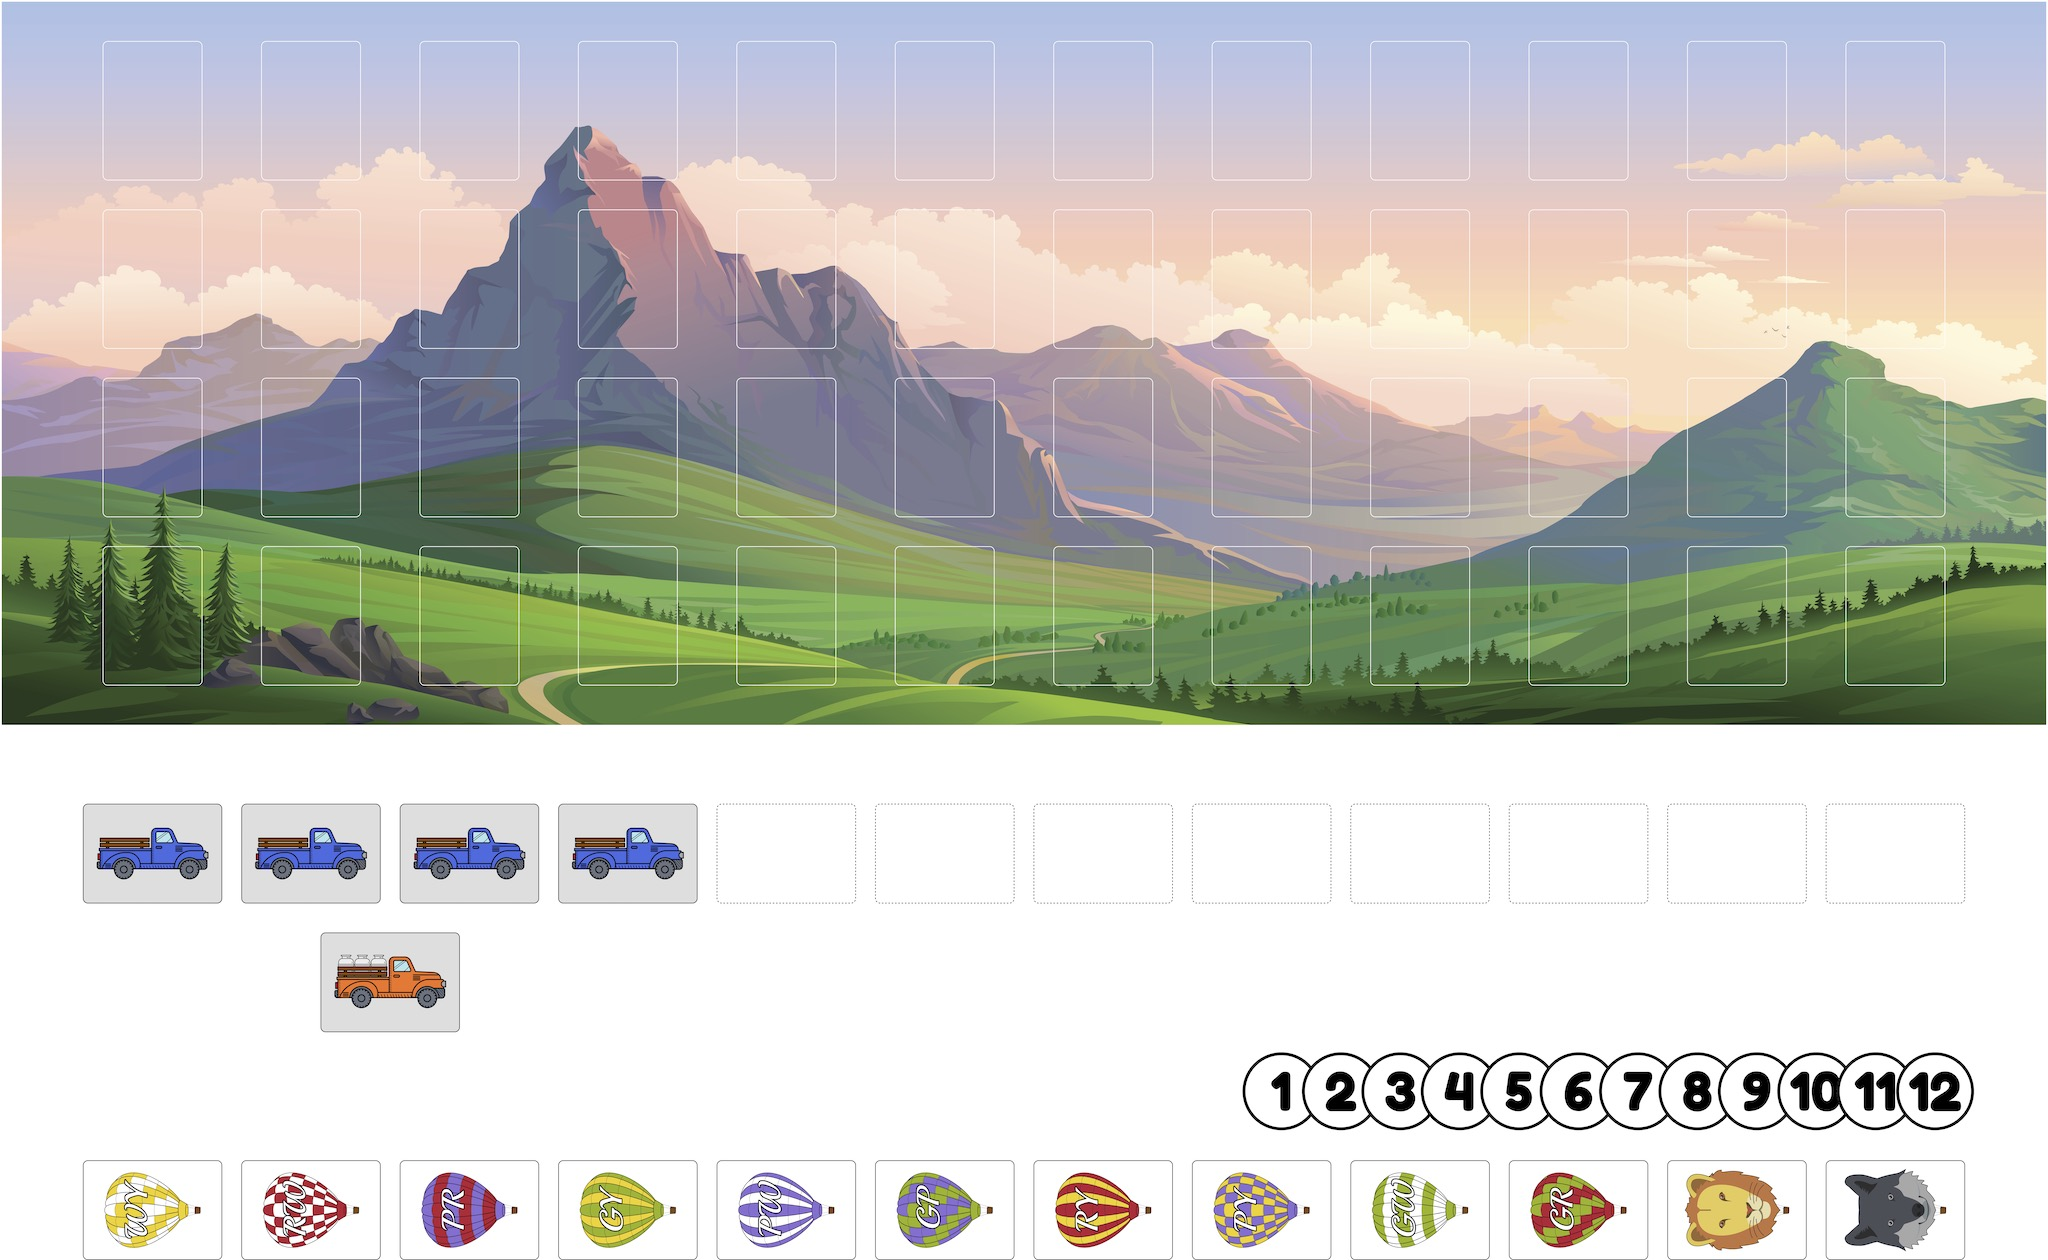
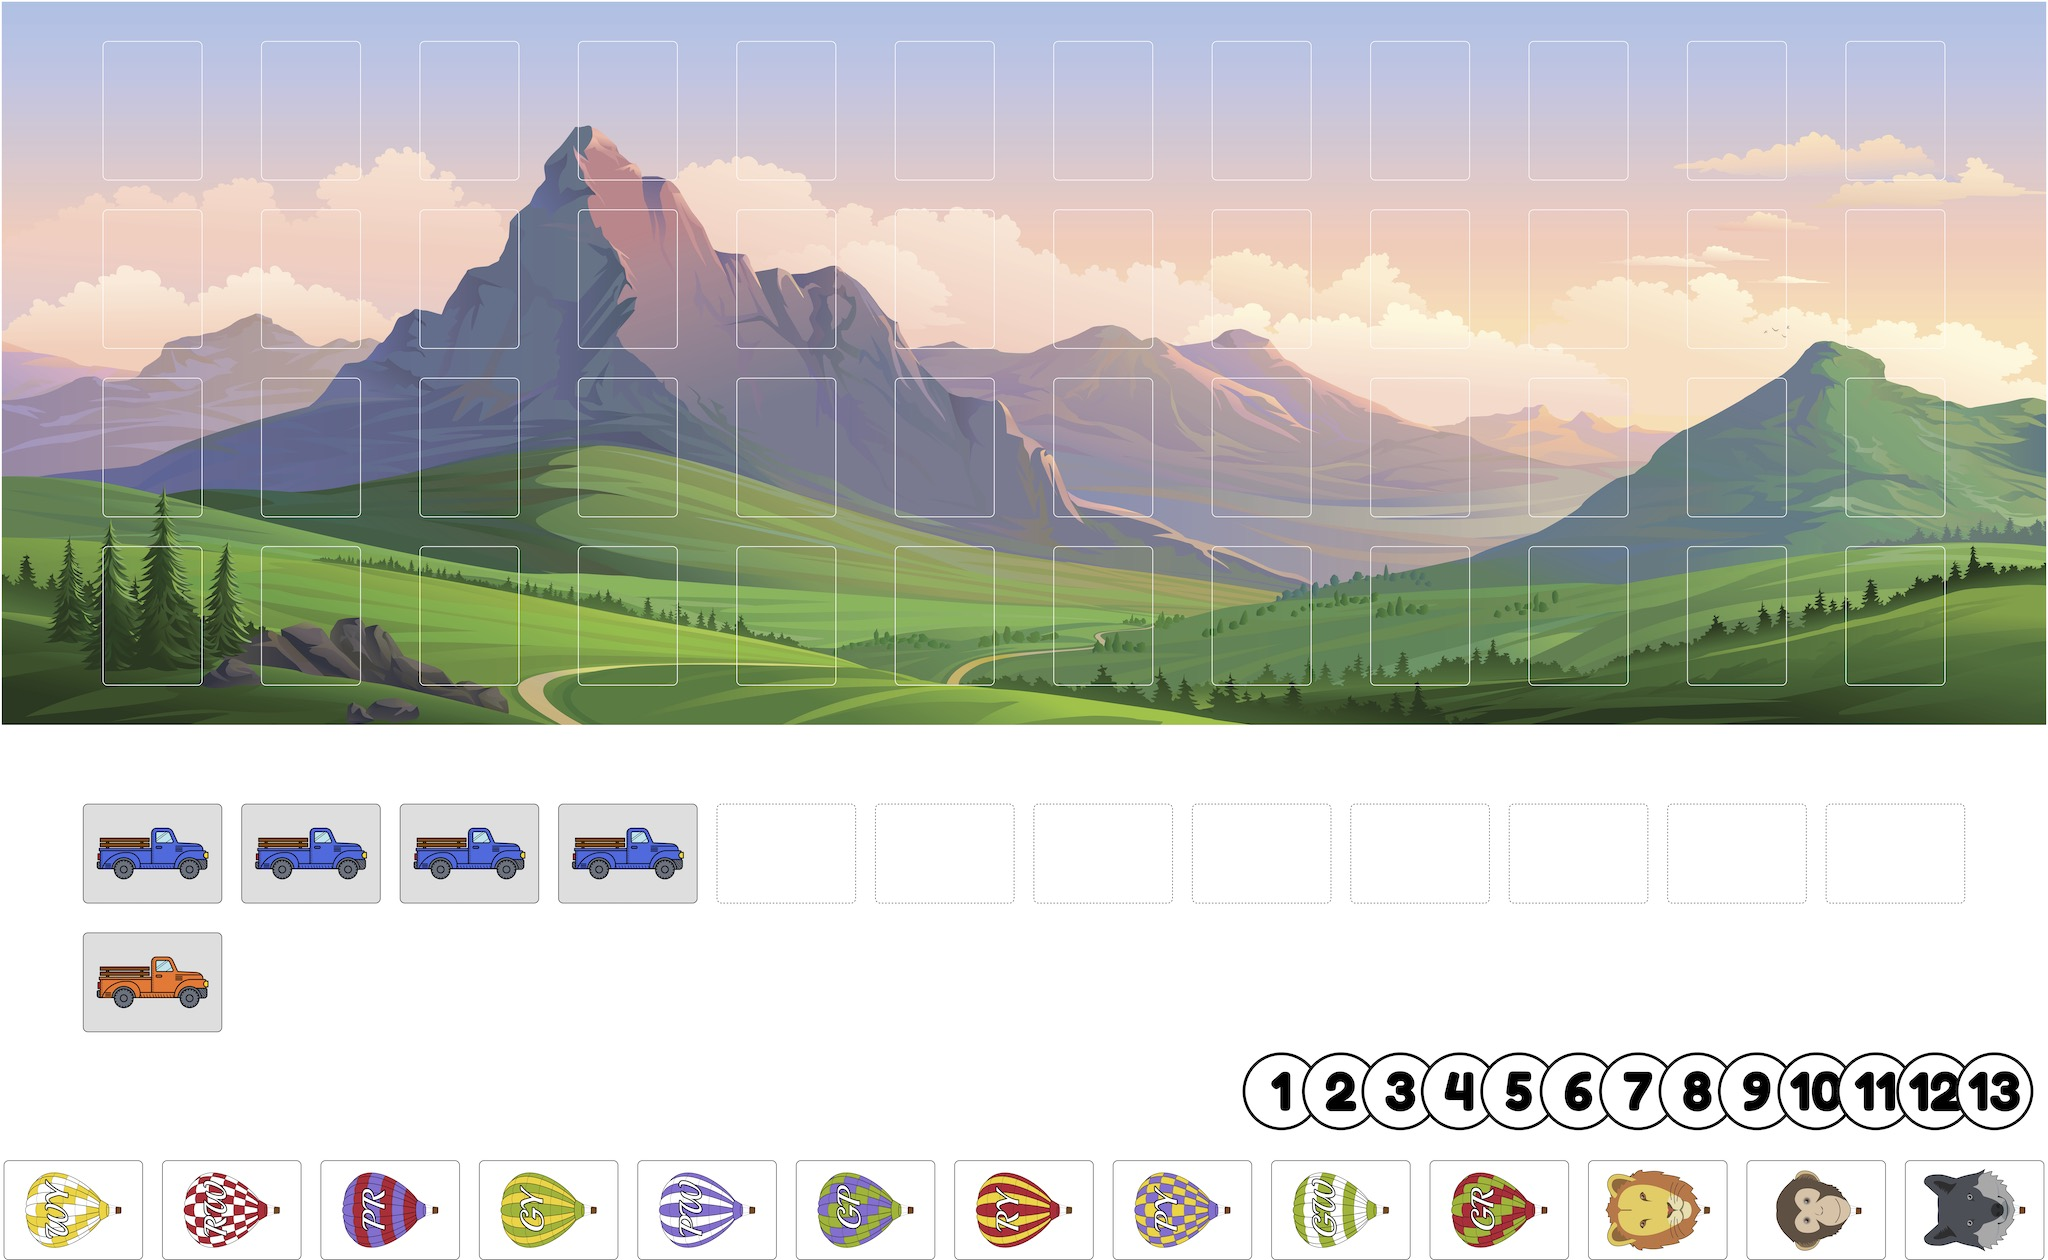
Modify rules with new safety truck positioning

diff --git a/set_up_diagram.tex b/set_up_diagram.tex
@@ -33,13 +33,13 @@
 
 %\foreach \x in {-5, -5.25, ..., -6}
 %	\node[ballooncard, rotate=90] at (\x, -9.25) {\includegraphics[height=3.25in]{Images/grid_py.png}};
-\node[truckcard] at (-38, -9.25) {\includegraphics[width=3.25in]{Images/safety_truck.png}};	
+\node[truckcard] at (-44, -9.25) {\includegraphics[width=3.25in]{Images/safety_truck.png}};	
 %	\node[inner sep=1.5in] at (-22, 21) {{\setmainfont[Scale=12.0]{Oi}\Huge Aloft}};
 
-\foreach \i/\j in {-44/diag_wy_labels.png, -40/grid_rw_labels.png, -36/horiz_pr_labels.png, -32/vert_gy_labels.png, -28/vert_pw_labels.png, -24/diag_gp_labels.png, -20/vert_ry_labels.png, -16/grid_py_labels.png, -12/horiz_gw_labels.png, -8/diag_gr_labels.png, -4/lion_labels.png, 0/wolf_labels.png}
+\foreach \i/\j in {-46/diag_wy_labels.png, -42/grid_rw_labels.png, -38/horiz_pr_labels.png, -34/vert_gy_labels.png, -30/vert_pw_labels.png, -26/diag_gp_labels.png, -22/vert_ry_labels.png, -18/grid_py_labels.png, -14/horiz_gw_labels.png, -10/diag_gr_labels.png, -6/lion_labels.png, -2/monkey_labels.png, 2/wolf_labels.png}
 \node[cardposition, rotate=90] at (\i, -15) {\includegraphics[height=3.25in]{Images/\j}};
 
-\foreach \i/\k in {-15.5/scoring_token_1.png, -14/scoring_token_2.png, -12.5/scoring_token_3.png,-11/scoring_token_4.png, -9.5/scoring_token_5.png, -8/scoring_token_6.png, -6.5/scoring_token_7.png,-5/scoring_token_8.png, -3.5/scoring_token_9.png, -2/scoring_token_10.png, -0.5/scoring_token_11.png,1/scoring_token_12.png}
+\foreach \i/\k in {-15.5/scoring_token_1.png, -14/scoring_token_2.png, -12.5/scoring_token_3.png,-11/scoring_token_4.png, -9.5/scoring_token_5.png, -8/scoring_token_6.png, -6.5/scoring_token_7.png,-5/scoring_token_8.png, -3.5/scoring_token_9.png, -2/scoring_token_10.png, -0.5/scoring_token_11.png,1/scoring_token_12.png, 2.5/scoring_token_13.png}
 \node at (\i,-12) {\includegraphics[width=50mm]{Images/\k}};
 
 \end{tikzpicture}

diff --git a/wind_diagram_2.tex b/wind_diagram_2.tex
@@ -9,10 +9,18 @@
 \node[cardposition, rotate=90] at (8, 0) {};
 %\foreach \x in {7, 6.75, ..., 6}
 %	\node[ballooncard, rotate=90] at (\x, -3.5) {\includegraphics[height=3.25in]{Images/grid_py.png}};
-\node[truckcard] at (2,-3.5) {\includegraphics[width=3.25in]{Images/safety_truck.png}};
-
-
+%\node[truckcard] at (2,-3.5) {\includegraphics[width=3.25in]{Images/safety_truck.png}};
 \pic[transform shape, anchor=west] at (5.625, 0) {nextarrow};
+
+\foreach \x in {-4, 0, 8, 12}
+\node[truckcard] at (\x,-3.5) {\includegraphics[width=3.25in]{Images/truck_b.png}};
+\node[cardposition, rotate=90] at (4, -3.5) {};
+\pic[transform shape, anchor=west] at (1.625, -3.5) {nextarrow};
+
+\foreach \x in {-4, 4, 8, 12}
+\node[truckcard] at (\x,-7) {\includegraphics[width=3.25in]{Images/truck_b.png}};
+\node[cardposition, rotate=90] at (0, -7) {};
+\pic[transform shape, anchor=west] at (-2.375, -7) {nextarrow};
 
 \end{tikzpicture}
 \end{document}

diff --git a/wind_diagram_3.tex b/wind_diagram_3.tex
@@ -6,13 +6,13 @@
 \begin{tikzpicture}[x=1in, y=1in]
 \foreach \x in {-4, 0, 4, 8}
 \node[truckcard] at (\x,0) {\includegraphics[width=3.25in]{Images/truck_b.png}};
-\node[cardposition, rotate=90] at (2, -3.5) {};
+\node[cardposition, rotate=90] at (-4, -3.5) {};
 %\foreach \x in {7, 6.75, ..., 6}
 %	\node[ballooncard, rotate=90] at (\x, -3.5) {\includegraphics[height=3.25in]{Images/grid_py.png}};
-\node[truckcard] at (-2,-3.5) {\includegraphics[width=3.25in]{Images/safety_truck.png}};
+\node[truckcard] at (-8,-3.5) {\includegraphics[width=3.25in]{Images/safety_truck.png}};
 
 
-\pic[transform shape, anchor=east] at (0.875, -3.5) {nextarrow};
+\pic[transform shape, anchor=east] at (-5.125, -3.5) {nextarrow};
 
 \end{tikzpicture}
 \end{document}

diff --git a/wind_diagram_1.tex b/wind_diagram_1.tex
@@ -9,7 +9,7 @@
 \node[cardposition, rotate=90] at (12, 0) {};
 %\foreach \x in {7, 6.75, ..., 6}
 %	\node[ballooncard, rotate=90] at (\x, -3.5) {\includegraphics[height=3.25in]{Images/grid_py.png}};
-\node[truckcard] at (2, -3.5) {\includegraphics[width=3.25in]{Images/safety_truck.png}};
+%\node[truckcard] at (2, -3.5) {\includegraphics[width=3.25in]{Images/safety_truck.png}};
 
 \pic[transform shape, anchor=east] at (10.875, 0) {nextarrow};
 

diff --git a/README.md b/README.md
@@ -9,13 +9,13 @@ During the game, you will launch a flight of hot-air balloons. You can play eith
 ## Components
   - 13 balloon cards
      - 10 regular balloon cards
-     - 3 special shape cards
+     - 3 special shape balloon cards
   - 13 scoring tokens
-  - 6 truck cards
+  - 5 truck cards
   - 5 colour cards
   - 1 game board
 
-The number of special shape cards, truck cards, and scoring tokens that you will use in your game depends on how many people are playing. See the table below for details. Notice that you will always use all of the regular balloon cards and colour cards but, unless you are playing a five-player game, you will not use all of the special shape cards, truck cards, or scoring tokens. If you are playing with less than five players, you should use the scoring tokens numbered 1-12.
+<!-- The number of special shape cards, truck cards, and scoring tokens that you will use in your game depends on how many people are playing. See the table below for details. Notice that you will always use all of the regular balloon cards and colour cards but, unless you are playing a five-player game, you will not use all of the special shape cards, truck cards, or scoring tokens. If you are playing with less than five players, you should use the scoring tokens numbered 1-12.
 
 | Player Count | 1 - 4 | 5 |
 | ----------: | ---: | ---: |
@@ -23,18 +23,17 @@ The number of special shape cards, truck cards, and scoring tokens that you will
 | Special Shape Cards | 2 | 3 |
 | Truck Cards | 5 | 6 |
 | Colour Cards | 5 | 5 |
-| Scoring Tokens | 12 | 13 | 
+| Scoring Tokens | 12 | 13 |  -->
 
 
 ## Set Up
-  1. If you are playing a competitive game, deal one colour card at random to each player. Your colour card will determine the colour of balloons with which you are _affiliated_. Do not reveal this card to the other players until the end of the game. If you are playing a cooperative game, then you should skip this step.
+  1. Deal one colour card at random to each player. Your colour card will determine the colour of balloons with which you are _affiliated_. Do not reveal this card to the other players until the end of the game.
      - Each regular balloon card is affiliated with two of the five possible colours.  The colours that a balloon card is affiliated with are the colours of the envelope of the balloon depicted on that card. Special shape cards are not affiliated with any colour. 
-  2.  Collect the truck cards that you will use during your game. Set one truck card aside. Place the remaining truck cards in a single row below the left-hand side of the game board. These truck cards comprise the _launch zone_. The rightmost truck card in the launch zone is called the _lead truck_.
-  3. Collect the truck card that you set aside in the previous step. Place it below the middle of the launch zone. This truck card is the _safety vehicle_.
+  2.  Collect the truck cards that you will use during your game. Set one truck card aside. Place the remaining truck cards in a single row below the left-hand side of the game board. These truck cards comprise the _launch zone_. The leftmost truck card is called the _last truck_. The rightmost truck card in the launch zone is called the _lead truck_.
+  3. Collect the truck card that you set aside in the previous step. Place it below the last truck. This truck card is the _safety truck_.
   4.  Collect the regular balloon cards and special shape cards that you will use during your game. These cards will comprise the _balloon deck_.
-  5.  If you are playing a cooperative game, shuffle the balloon deck. If you are playing a competitive game, then you should skip this step. 
-  6.  Place the balloon deck below the launch zone. In a competitive game, you should spread the balloon cards on the table so that they are all visible.
-  7. Place the scoring tokens below the play area.
+  5. Deal the cards in the balloon deck in a single row below the launch zone. 
+  6. Place the scoring tokens below the play area.
 ![Set up for a four-player game.](set_up_diagram.jpg)
 
 ## Gameplay
@@ -50,12 +49,9 @@ Throughout the game, each balloon will progress through a series of states: pack
 To advance a balloon, you move a balloon from its current state to the next. 
   - All balloons begin in the packed state. All balloons in the packed state should be in the balloon deck.
   - To advance a balloon from the packed state to the unpacked state, you should remove it from the balloon deck and place it horizontally on one of the truck cards in the launch zone. You may not place a balloon on the safety vehicle.
-     - In a cooperative game, you may only unpack the first balloon (top card of the balloon deck) which is in the packed state.
-     - In a competitive game, you may unpack any balloon which is in the packed state.
 - To advance a balloon from the unpacked state to the inflated state, you should turn it so that it is placed vertically on its truck card.
 - To advance a balloon from the inflated state to the flying state, you should slide it into the bottom row of the play area directly above its truck card. It will then be flying at an altitude of one.
    - Balloons that are flying (at any altitude) may never be orthogonally adjacent to another balloon which is flying.
-   - In a cooperative game, balloons that are flying may never be diagonally adjacent to another balloon which is flying and with which it shares a colour. 
 - To advance a ballon that is flying, you should slide it up one row so that its altitude increases by one.
    - The maximum altitude at which balloons can fly is four.
    - Balloons never descend (decrease their altitude) or move horizontally. 
@@ -65,7 +61,7 @@ To advance a balloon, you move a balloon from its current state to the next.
 If any balloons are flying, then before you advance a balloon you will move a truck. Trucks always move from left to right. The game ends immediately when the lead truck moves past the rightmost column of the tableau.
 
 When you move a truck, you will do one of the following:
-  - If the truck cards are in adjacent columns and the safety vehicle is centered on the launch zone (e.g. the starting position) then you should move the rightmost truck one column to the right.
+  - If the truck cards are in adjacent columns and the safety vehicle is below the last truck (e.g. the starting position) then you should move the rightmost truck one column to the right.
 
   ![Moving a truck when the trucks are in a single group and the safety vehicle is centered on the launch zone.](wind_diagram_1.jpg)
 
@@ -73,20 +69,14 @@ When you move a truck, you will do one of the following:
 
   ![Moving a truck when the the trucks are in two groups.](wind_diagram_2.jpg)
 
-  - If all of the truck cards are in adjacent rows, but the safety vehicle is not centered on the launch zone (e.g. after each of the truck cards in the launch zone has been moved one time), then you should slide the safety vehicle one position to the right so that it is centered on the launch zone.
+  - If all of the truck cards are in adjacent rows, but the safety vehicle is not below the last truck (e.g. after each of the truck cards in the launch zone has been moved one time), then you should slide the safety vehicle one position to the right so that it is below the last truck.
 
   ![Moving a truck when the trucks are in a single group and the safety vehicle is not centered on the launch zone.](wind_diagram_3.jpg)
 
 __Note:__ Any balloon cards that are in the launch zone (i.e. balloons that are in the unpacked or inflated states) should accompany the truck card on which they have been placed when that truck card is moved. 
 
 ## Scoring
-After the game ends, you should compute your score.
-
-### Cooperative Game
-In a cooperative game, your score is the width of the formation (i.e. the number of adjacent columns required to contain all of the balloons that are flying), plus a three-point penalty for each balloon that you failed to launch during the game. Your objective is to minimize your score.
-
-### Competitive Game
-In a competitive game, each balloon scores a number of points that is determined by its position within the formation. In general, balloons that are flying at higher altitudes score more points than those that are flying at lower alititudes.  If balloons are flying at the same altitude, then the balloons that are closer to the front (right-hand side) of the formation score more points than the balloons that are closer to the back (left-hand side) of the formation. 
+Each balloon scores a number of points that is determined by its position within the formation. In general, balloons that are flying at higher altitudes score more points than those that are flying at lower alititudes.  If balloons are flying at the same altitude, then the balloons that are closer to the front (right-hand side) of the formation score more points than the balloons that are closer to the back (left-hand side) of the formation. 
 
 Use the scoring tokens to indicate the number of points scored by each balloon. Place the scoring token numbered "1" on the leftmost balloon in the bottom row of the formation. Scanning from left to right, place scoring tokens on the remaining balloons in the bottom row of the formation, always placing the token with lowest remaining number. Then proceed to the next highest row of the formation. Continue in this fashion, scanning from left to right and bottom to top, until each balloon that is flying has been assigned a scoring token.
 
@@ -96,3 +86,10 @@ Your score is the sum of the scores for all of the balloons with which you are a
 
 ![Scores for each balloon at the end of a hypothetical game](scoring_diagram.jpg)
 
+## Solo Mode
+Aloft can also be enjoyed as a solo experience. This version of the game is similar to the multi-player version described above, differing in the following ways:
+  - You will not use the colour cards or the scoring tokens.
+  - You will only use two of the special shape balloon cards.
+  - You should shuffle the balloon deck before dealing out the balloon cards in a single row below the tableau. The order in which these cards are arranged is significant. If you choose to unpack a balloon on a given turn, you must unpack the first (leftmost) balloon of the balloon deck.
+  - You must adhere to one additional rule that governs the arrangement of balloons in the tableau. At no point can two balloons which share a colour be diagonally adjacent to one another.
+  - You will use a different function to compute your score. Your score is equal to the number of adjacent columns required to contain the formation of all balloons which are flying at the end of the game plus a three point penalty for every balloon which you were unable to launch.
